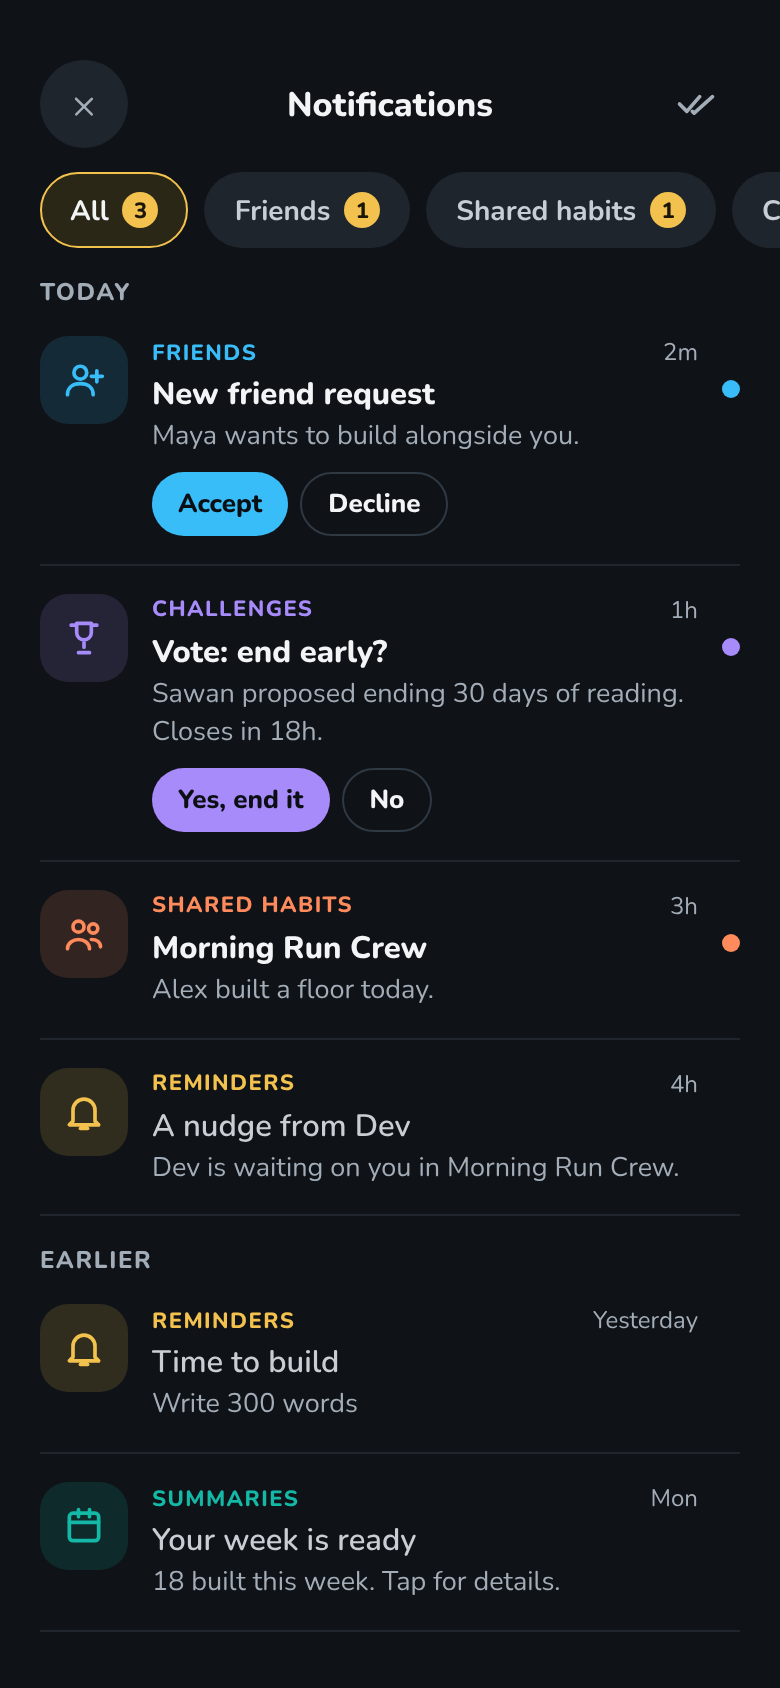
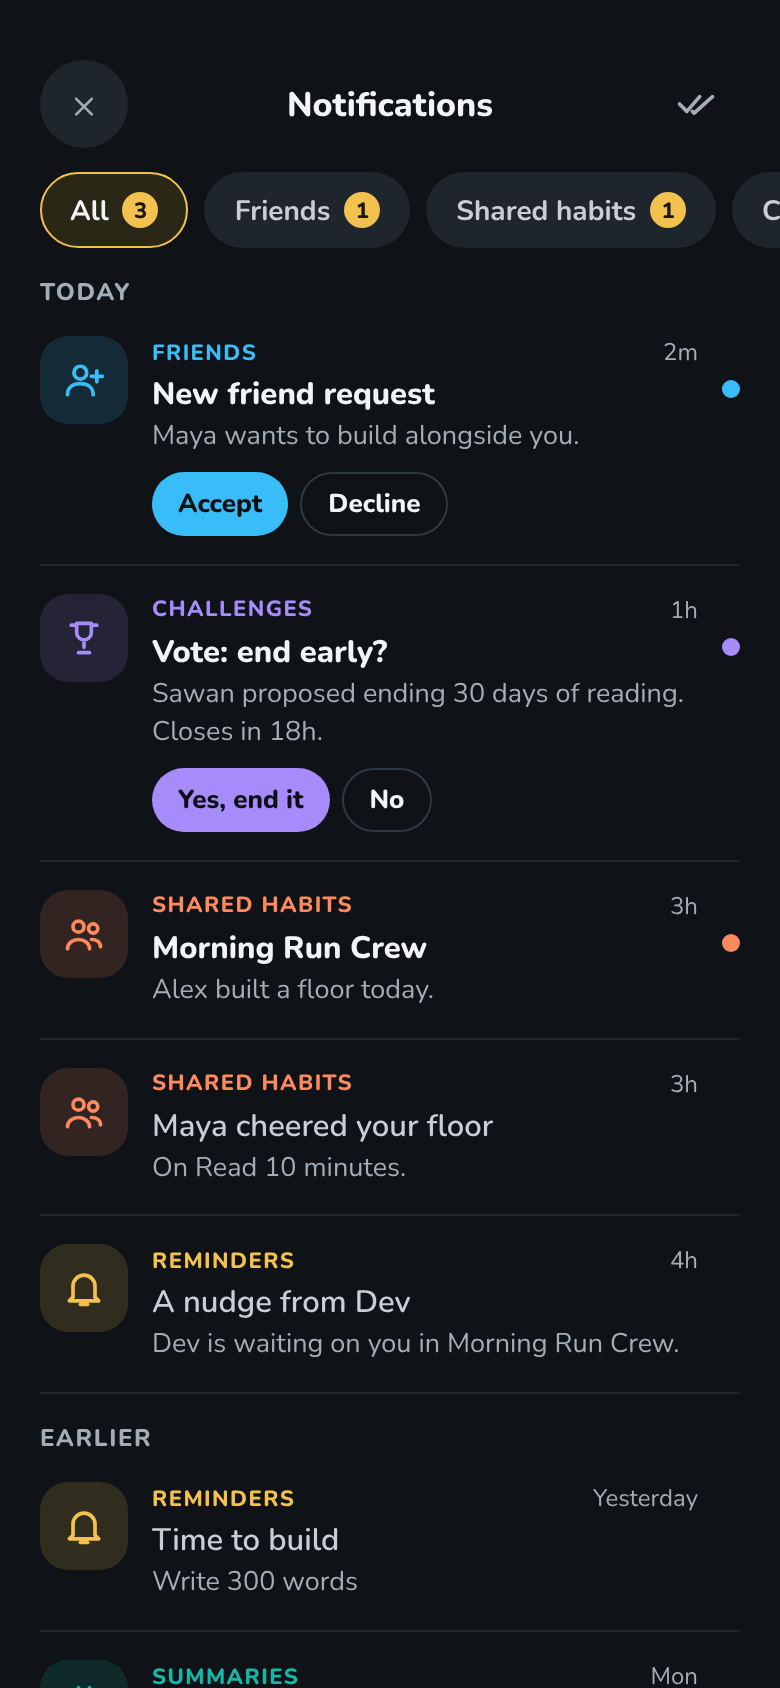
Design: end-shared-habit confirm, group invite join picker, extra notification rows
Claude-Session: https://claude.ai/code/session_01UvWD32uMFJU1E2B9jDYiLg

diff --git a/design/skyline/source/old.js b/design/skyline/source/old.js
@@ -1,7 +1,7 @@
 // Redraws of boards 02, 04, 05, 08, 09, 10, 11, 15 with the current floor art
 (function(){
 const Q3=new URLSearchParams(location.search);const S3=Q3.get('s');
-if(!/^(cm-|sh-|ch-|pf-|ho-|to-|sk-|ft-|fx-|ce-|ev-|nc-|np-)/.test(S3||''))return;
+if(!/^(cm-|sh-|ch-|pf-|ho-|to-|sk-|ft-|fx-|ce-|ev-|nc-|np-|ne-)/.test(S3||''))return;
 const R=document.getElementById('root');
 const tw=(col,o)=>{const old=C.front;C.front=col;const r=tower(o);C.front=old;return r};
 const grow=(n,lit,over={})=>Array.from({length:n},(_,i)=>over[i]||(i>=n-lit?'lit':'dark'));
@@ -266,6 +266,7 @@ if(S3==='nc-all'){
   ${nRow('friends','New friend request','Maya wants to build alongside you.','2m',true,['Accept','Decline'])}
   ${nRow('chal','Vote: end early?','Sawan proposed ending 30 days of reading. Closes in 18h.','1h',true,['Yes, end it','No'])}
   ${nRow('shared','Morning Run Crew','Alex built a floor today.','3h',true)}
+  ${nRow('shared','Maya cheered your floor','On Read 10 minutes.','3h',false)}
   ${nRow('rem','A nudge from Dev','Dev is waiting on you in Morning Run Crew.','4h',false)}
   ${dayH('EARLIER')}
   ${nRow('rem','Time to build','Write 300 words','Yesterday',false)}
@@ -278,6 +279,8 @@ if(S3==='nc-chal'){
   ${nRow('chal','Read 20 books ended early','3 of 4 voted yes. See the landmark.','5h',true)}
   ${dayH('EARLIER')}
   ${nRow('chal','The vote to end early didn\'t pass','2 of 4 said yes. 30 days of reading keeps going.','Yesterday',false)}
+  ${nRow('chal','Vote closed: the challenge ended','30 days of reading ended before the vote closed.','Yesterday',false)}
+  ${nRow('chal','Walk 100 miles was deleted','The creator deleted this challenge.','Nov 9',false)}
   ${nRow('chal','Walk 50 miles ended','62 of 80 floors built. See the landmark.','Nov 8',false)}
   ${nRow('chal','Read 10 books ended','You reached the target: 40 of 40 floors. See the landmark.','Nov 1',false)}</div></div>`;
 }
@@ -289,6 +292,27 @@ if(S3==='np-push'){
   ${banner(344,'Read 20 books ended early','3 of 4 voted yes. See the landmark.','5h ago')}
   ${banner(458,'Walk 50 miles ended','62 of 80 floors built. See the landmark.','Nov 8')}
   <div style="position:absolute;left:30px;right:30px;bottom:120px;text-align:center;color:#A3ADB8;font-size:13px;line-height:1.5">Push text for a vote and for an ended challenge. Tapping opens the challenge page.</div></div>`;
+}
+
+const SKD='file:///home/user/habituate/design/skyline/';
+if(S3==='ne-end'){
+  R.innerHTML=`<div style="position:absolute;inset:0;overflow:hidden"><img src="${SKD}10-sharedhabit.png" style="position:absolute;inset:0;width:390px;height:844px"><div style="position:absolute;inset:0;background:rgba(4,6,10,.66)"></div>
+  <div style="position:absolute;left:0;right:0;top:330px;bottom:0;background:#1B2128;border-radius:24px 24px 0 0;padding:12px 22px"><div style="width:40px;height:4px;border-radius:2px;background:#3A4552;margin:0 auto 16px"></div>
+  <div style="font-size:22px;font-weight:800;line-height:1.2">End Morning Run Crew?</div>
+  <div style="color:#C9CED4;font-size:15px;line-height:1.5;margin-top:8px">Its final group run, 12 days, stays on the page and the shared habit moves to Completed. Nobody can build on it any more, and every member sees it as ended.</div>
+  <div style="margin-top:12px;background:#161B21;border-radius:14px;padding:12px 14px;font-size:14px;color:#A3ADB8;line-height:1.45">Want to remove it for everyone instead? Use Delete. That erases it, including the group run.</div>
+  <div style="margin-top:18px;height:54px;border-radius:27px;background:#F2C14E;color:#1b1608;font-weight:800;font-size:16.5px;display:flex;align-items:center;justify-content:center">End shared habit</div>
+  <div style="margin-top:6px;height:46px;display:flex;align-items:center;justify-content:center;font-weight:800;font-size:15px;color:#C9CED4">Cancel</div></div></div>`;
+}
+if(S3==='ne-join'){
+  const habits=[['Run','#FF8A5C',true],['Read 10 minutes','#38BDF8',false],['Write 300 words','#F2C14E',false]];
+  R.innerHTML=`<div style="position:absolute;inset:0;overflow:hidden"><img src="${SKD}40-notification-center.png" style="position:absolute;inset:0;width:390px;height:844px"><div style="position:absolute;inset:0;background:rgba(4,6,10,.66)"></div>
+  <div style="position:absolute;left:0;right:0;top:300px;bottom:0;background:#1B2128;border-radius:24px 24px 0 0;padding:12px 22px"><div style="width:40px;height:4px;border-radius:2px;background:#3A4552;margin:0 auto 16px"></div>
+  <div style="font-size:22px;font-weight:800;line-height:1.2">Join Morning Run Crew</div>
+  <div style="color:#C9CED4;font-size:15px;line-height:1.5;margin-top:6px">Pick the habit you'll build with this group.</div>
+  <div style="margin-top:12px">${habits.map(([n,c,on])=>`<div style="display:flex;align-items:center;gap:12px;height:56px;border-bottom:1px solid #232b34"><i style="width:12px;height:12px;border-radius:4px;background:${c};display:block"></i><div style="flex:1;font-weight:700;font-size:16px">${n}</div><div style="width:24px;height:24px;border-radius:12px;border:2px solid ${on?'#F2C14E':'#3A4552'};display:flex;align-items:center;justify-content:center">${on?'<i style="width:12px;height:12px;border-radius:6px;background:#F2C14E;display:block"></i>':''}</div></div>`).join('')}</div>
+  <div style="margin-top:18px;height:54px;border-radius:27px;background:#F2C14E;color:#1b1608;font-weight:800;font-size:16.5px;display:flex;align-items:center;justify-content:center">Join</div>
+  <div style="margin-top:6px;height:46px;display:flex;align-items:center;justify-content:center;font-weight:800;font-size:15px;color:#C9CED4">Not now</div></div></div>`;
 }
 
 //END

diff --git a/design/skyline/README.md b/design/skyline/README.md
@@ -44,7 +44,7 @@ This is the only folder of Skyline mockups. The old `concept _screens/` folder w
 | 37 | `37-firstrun-notification-explainer.png` | First run: notification explainer | 7 | **APPROVED by the owner 2026-11-16, copy corrected 2026-11-16.** Uses the app's existing PushPermissionModal copy word for word ("Stay on track", "Not now" / "Allow notifications"). My first draft's copy was replaced. |
 | 38 | `38-firstrun-location-explainer.png` | First run: location explainer | 7 | **APPROVED by the owner 2026-11-16.** SKYLINE §5 step 6. Uses the existing LocationPermissionModal copy word for word, restyled. |
 | 39 | `39-retired-towers-list.png` | Retired towers list | 3 | **APPROVED by the owner 2026-11-16.** Restyle of the existing screen: icon tile, name, Restore, delete. The explanatory line under the list is mine. The developer confirms the list already opens from a header icon. |
-| 40 | `40-notification-center.png` | Notification center | 7 | **APPROVED by the owner 2026-11-18 (redesigned).** Rows no longer look alike: five categories, each with its own colour, icon and label (Friends, Shared habits, Challenges, Reminders, Summaries); chips at the top filter the list and show their unread counts; rows are grouped Today / Earlier; unread rows are bolder with a category-coloured dot. Requests, invites and the end-early vote get small inline buttons (new behaviour; 32pt tall as drawn at the owner's request, with the tap area padded to 44dp). A Nudge is a Reminder (owner). Sample titles and bodies are mine; the real ones come from the server. The old board is in `superseded/`. |
+| 40 | `40-notification-center.png` | Notification center | 7 | **APPROVED by the owner 2026-11-18 (redesigned).** Rows no longer look alike: five categories, each with its own colour, icon and label (Friends, Shared habits, Challenges, Reminders, Summaries); chips at the top filter the list and show their unread counts; rows are grouped Today / Earlier; unread rows are bolder with a category-coloured dot. Requests, invites and the end-early vote get small inline buttons (new behaviour; 32pt tall as drawn at the owner's request, with the tap area padded to 44dp). A Nudge is a Reminder (owner). Sample titles and bodies are mine; the real ones come from the server. The old board is in `superseded/`. | **2026-11-18 (owner):** a cheer notification goes under Shared habits; per-category counts cover the latest 50 notifications (the main unread badge stays exact). Friend-request rows get inline Accept / Decline (the notification now carries the request id); a group invite's Join opens the habit picker (board 73). Sample added: a cheer row. **Added rows await approval.**
 | 41 | `41-ask-habituate-chat.png` | Ask Habituate, conversation | 7 | **APPROVED by the owner 2026-11-16.** Uses the existing strings: "Ask Habituate", "Ask about your routine...", "AI suggestions can be imperfect. You're in control.", "Nothing changes until you confirm.", "Confirm adjustment" / "Keep my goal". The question and answer text are sample copy, written non-causally. |
 | 42 | `42-ask-habituate-empty.png` | Ask Habituate, empty state with starter questions | 7 | **APPROVED by the owner 2026-11-16.** Starter questions are generated from the user's habits in the app; the three shown and the heading text are my sample copy. |
 | 43 | `43-friend-skyline-public.png` | Friend skyline, public profile | 6 | **PROPOSAL, awaiting approval (revised 2026-11-16 per the owner).** Towers without habit names, each in the habit's own colour, with finished towers shown faded behind the current one (up to two, as on your own skyline). Needs a friendship-gated endpoint returning floors, colour and a finished-tower count, but no names. The developer has sent a plan; backend not yet approved. |
@@ -70,8 +70,10 @@ This is the only folder of Skyline mockups. The old `concept _screens/` folder w
 | 67 | `67-challenge-end-early-voted.png` | End early: after voting | 6 | **APPROVED by the owner 2026-11-18.** "You voted yes · tap to change" until the vote closes. |
 | 68 | `68-challenge-end-early-not-passed.png` | End early: vote did not pass | 6 | **APPROVED by the owner 2026-11-18.** A gentle note: the challenge keeps going and a new vote can start in 24 hours (owner). No red, no blame. |
 | 69 | `69-challenges-list-vote-open.png` | Challenges list with a vote open | 6 | **APPROVED by the owner 2026-11-18.** A gold "Vote open · 18h" chip on the card, plus a one-line explanation. The prompt to members also needs a notification (board 40) and push; not drawn. |
-| 70 | `70-notification-center-challenges.png` | Notification center, Challenges filter | 7 | **APPROVED by the owner 2026-11-18 (vote and ended notifications added).** The Challenges chip selected, showing every vote and ended notification: vote opened (Yes, end it / No), the same vote after you voted ("You voted yes"), a challenge ended early by vote, a vote that did not pass, and challenges ended at their end date (target reached or not). All titles and bodies are my wording. Never "failed" or "missed". |
+| 70 | `70-notification-center-challenges.png` | Notification center, Challenges filter | 7 | **APPROVED by the owner 2026-11-18 (vote and ended notifications added).** The Challenges chip selected, showing every vote and ended notification: vote opened (Yes, end it / No), the same vote after you voted ("You voted yes"), a challenge ended early by vote, a vote that did not pass, and challenges ended at their end date (target reached or not). All titles and bodies are my wording. Never "failed" or "missed". | **Rows added 2026-11-18, awaiting approval:** "Vote closed: the challenge ended" (the vote was moot because the end date arrived first) and "Walk 100 miles was deleted" (my wording; challenge and group deleted notifications had no design).
 | 71 | `71-push-vote-and-ended.png` | Push notifications: vote and challenge ended | 7 | **APPROVED by the owner 2026-11-18.** Lock-screen banners for a vote opened, a challenge ended early, and a challenge ended at its end date. Tapping opens the challenge page. Wording is mine. |
+| 72 | `72-end-shared-habit-confirm.png` | End a shared habit: confirm (creator only) | 6 | **PROPOSAL, awaiting owner approval (2026-11-18).** Explains that the final group run stays, the habit moves to Completed and nobody can build on it, and that Delete is the way to erase it. The button is amber, not red. Wording is mine. Where the End action lives (next to Delete in the shared habit's settings) is for the developer to confirm. |
+| 73 | `73-group-invite-join-picker.png` | Group invite: pick the habit to join with | 7 | **PROPOSAL, awaiting owner approval (2026-11-18).** Tapping Join on a group invite in the notification center opens this small picker (your habits, one selected), then Join or Not now. |
 
 `superseded/` keeps old versions and boards that were not chosen (01, 03, 06, 07, 22, 23, 25, 53, 54). Don't build from them.
 
